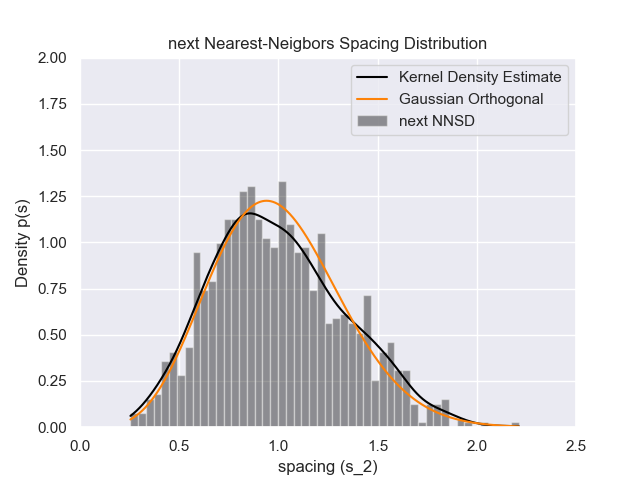
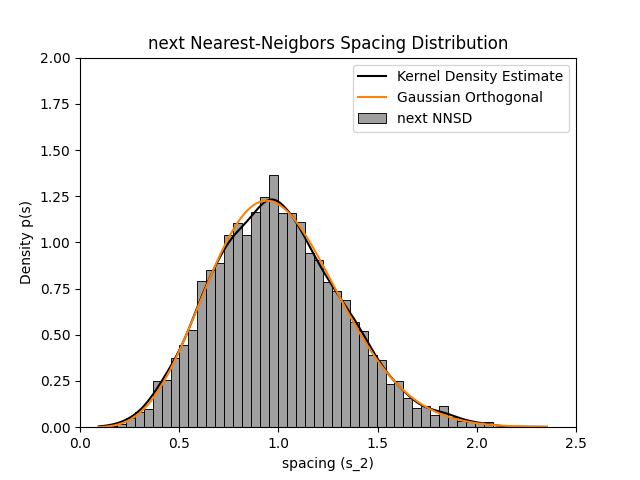
update README

diff --git a/readme/make_figures.py b/readme/make_figures.py
@@ -65,6 +65,85 @@ def make_unfolding_compare_plots() -> None:
     plt.show()
 
 
+def make_unfolding_detrend_compare_plots() -> None:
+    import matplotlib.pyplot as plt
+
+    from empyricalRMT.eigenvalues import Eigenvalues
+    from empyricalRMT.signalproc.detrend import DetrendMethod, detrend
+    from empyricalRMT.smoother import SmoothMethod
+
+    eigs = Eigenvalues.generate(1000, kind="goe")
+    # goe_unfolds = {
+    #     method.name: eigs.detrend(method).unfold(smoother="gue") for method in DetrendMethod
+    # }
+    # goe_unfolds[""] = eigs.unfold(smoother="gue")
+    poly_unfolds = {
+        method.name: eigs.detrend(method).unfold(smoother="poly", degree=5)
+        for method in DetrendMethod
+    }
+    poly_unfolds[""] = eigs.unfold(smoother="poly", degree=5)
+    N = len(DetrendMethod) + 1
+    fig, axes = plt.subplots(ncols=2, nrows=N)
+    for i, (label, unfolded) in enumerate(poly_unfolds.items()):
+        title = f"{label} De-trending"
+        unfolded.plot_nnsd(
+            title=title,
+            brody=True,
+            brody_fit="mle",
+            ensembles=["goe", "poisson"],
+            fig=fig,
+            axes=axes[i][0],
+        )
+        unfolded.plot_spectral_rigidity(title=title, ensembles=["goe"], fig=fig, axes=axes[i][1])
+        unfolded.plot_level_variance(title=title, ensembles=["goe"], fig=fig, axes=axes[i][2])
+        axes[i][0].legend().set_visible(False) if i != 0 else None
+        axes[i][1].legend().set_visible(False) if i != 0 else None
+    fig.subplots_adjust(top=0.95, bottom=0.05, left=0.08, right=0.95, hspace=0.383)
+    fig.set_size_inches(w=8.5 * 1.5, h=11 * 1.5)
+    # fig.savefig(OUTDIR / "unfold_compare_detrended.png", dpi=300)
+    plt.show()
+
+
+def make_single_plots() -> None:
+    from empyricalRMT._types import MatrixKind
+    from empyricalRMT.eigenvalues import Eigenvalues
+    from empyricalRMT.plot import PlotMode
+    from empyricalRMT.smoother import SmoothMethod
+
+    ensembles = ["poisson", "goe"]  # theoretically expected curves to plot
+    eigs = Eigenvalues.generate(matsize=5000, kind=MatrixKind.GOE)
+    unfolded = eigs.unfold(smoother=SmoothMethod.GOE)
+    unfolded.plot_nnsd(
+        ensembles=ensembles, mode=PlotMode.Save, outfile=OUTDIR / "nnsd.png"
+    )  # nearest neighbours spacings
+    unfolded.plot_nnnsd(
+        ensembles=["goe"], mode=PlotMode.Save, outfile=OUTDIR / "nnnsd.png"
+    )  # next-nearest neighbours spacings
+    unfolded.plot_spectral_rigidity(
+        ensembles=ensembles, mode=PlotMode.Save, outfile=OUTDIR / "rigidity.png"
+    )
+    unfolded.plot_level_variance(
+        ensembles=ensembles, mode=PlotMode.Save, outfile=OUTDIR / "variance.png"
+    )
+
+
+def make_unfolding_fit_plot() -> None:
+    import matplotlib.pyplot as plt
+
+    from empyricalRMT.eigenvalues import Eigenvalues
+    from empyricalRMT.smoother import SmoothMethod
+
+    # generate time series data
+    T = np.random.standard_normal([1000, 250])
+    eigs = Eigenvalues.from_time_series(T, trim_zeros=False)
+    exp_unfolded = eigs.unfold(smoother=SmoothMethod.Exponential)
+    poly_unfolded = eigs.unfold(smoother=SmoothMethod.Polynomial, degree=5)
+    fig, (ax1, ax2) = plt.subplots(nrows=1, ncols=2, sharex=True, sharey=True)
+    exp_unfolded.plot_fit(fig=fig, axes=ax1, title="Exponential Unfolding")
+    poly_unfolded.plot_fit(fig=fig, axes=ax2, title="Polynomial Degree 5 Unfolding")
+    fig.savefig(OUTDIR / "unfoldfit.png")
+
+
 def time_rigidity() -> None:
     from timeit import repeat
 
@@ -102,5 +181,8 @@ def time_levelvar() -> None:
 if __name__ == "__main__":
     # make_observables_plot()
     # make_unfolding_compare_plots()
+    # make_unfolding_detrend_compare_plots()
+    make_unfolding_fit_plot()
+    # make_single_plots()
     # time_rigidity()
-    time_levelvar()
+    # time_levelvar()

diff --git a/empyricalRMT/plot.py b/empyricalRMT/plot.py
@@ -361,39 +361,30 @@ def _unfolded_fit(
     N = len(unfolded)
     step_vals = np.arange(0, N)
     df_line = pd.DataFrame({"Step Function": step_vals, "Unfolded λ": unfolded})
-    # df_scatter = pd.DataFrame({"Step Function": steps, "Outlier": np.abs(unfolded)})
     sbn.lineplot(data=df_line, ax=axes)
-    mean = np.mean(np.abs(unfolded))
 
-    # 0 is left of cmap, color_max is right of cmap
-    color = (5 * np.abs(unfolded) / mean) ** 2
-    size = (10 * (np.abs(unfolded) - mean) / mean) ** 2
-    inlier = np.abs(unfolded - step_vals) < 5
-    color[inlier] = color.min()
-    min_size = 0.5
-    size[inlier] = min_size
-    size[size < 1] = min_size
     axes.scatter(
         x=step_vals,
         y=unfolded,
-        s=size,  # size of points
-        c=color,  # color of points
+        s=np.abs(step_vals - unfolded),  # size of points
+        c=np.abs(step_vals - unfolded) ** 1.5,  # 1.5 factor improves color contrast
+        # s=size,  # size of points
+        # c=color,  # color of points
         cmap=cmap,  # should be color blind safe
         marker=MarkerStyle("o"),
         edgecolors="white",
         linewidths=0.1,
-        label="Outlier",
+        label="MSE",
         alpha=0.4,
     )
     # plt.setp(ax_scatter, label="Outlier")
     axes.set(title=title, xlabel="Eigenvalue Index", ylabel="Unfolded Value")
     handles, labels = axes.get_legend_handles_labels()
     line_handles, line_labels = handles[:-1], labels[:-1]
-    # axes.legend(line_handles, line_labels)
     cmap_handles = [Rectangle((0, 0), 1, 1)]
     # seems you only need a handler map for legend element that need a custom handler
     handler_map = dict(zip(cmap_handles, [HandlerColormap(cmap, num_stripes=16)]))
-    labels = [line_labels[0], line_labels[1], "Inlier / Outlier"]
+    labels = [line_labels[0], line_labels[1], "Difference"]
     axes.legend(
         handles=line_handles + cmap_handles,
         labels=labels,
@@ -698,17 +689,18 @@ def _next_spacings(
 
     axes = cast(
         Axes,
-        sbn.distplot(
+        sbn.histplot(
             _spacings,
-            norm_hist=True,
-            bins=bins,  # doane
+            stat="density",
+            bins=bins,  # type: ignore
             kde=False,
             label="next NNSD",
-            axlabel="spacing (s_2)",
-            color="black",
+            color="grey",
             ax=axes,
         ),
     )
+    axes = cast(Axes, axes)
+    axes.set_xlabel("spacing (s_2)")
 
     if kde is True:
         if trim_kde:
@@ -1221,10 +1213,20 @@ def _kde_plot(
     inconsistent behaviours like https://github.com/mwaskom/seaborn/issues/938
     and https://github.com/mwaskom/seaborn/issues/796
     """
+    idx = values <= 0
+    if np.sum(idx) == len(values):
+        warn("Spacings are all zero. Cannot plot kernel density estimate.")
+        return
     values = values[values > 0]  # prevent floating-point bad behaviour
     kde = KDE(values)
     # kde.fit(kernel="gau", bw="scott", cut=0)
-    kde.fit(kernel="gau", bw=bw, cut=0)  # type: ignore
+    try:
+        kde.fit(kernel="gau", bw=bw, cut=0)  # type: ignore
+    except ZeroDivisionError:
+        # kde.fit(kernel="cos", cut=0, fft=False)  # type: ignore
+        print(values)
+        kde.fit()  # type: ignore
+
     evaluated = np.empty_like(grid)
     for i, _ in enumerate(evaluated):
         evaluated[i] = kde.evaluate(grid[i])

diff --git a/empyricalRMT/signalproc/detrend.py b/empyricalRMT/signalproc/detrend.py
@@ -1,13 +1,70 @@
-from typing import cast
+from __future__ import annotations
+
+from enum import Enum
+from typing import Literal, cast
 
 import numpy as np
 from numba import njit, prange
+from numpy import float64 as f64
+from numpy.polynomial import Polynomial
 from numpy.typing import NDArray
 from PyEMD import EMD
+from scipy.optimize import curve_fit
 from scipy.stats import linregress
 
 from empyricalRMT._types import fArr
+from empyricalRMT.exponentials import gompertz, inverse_gompertz
 from empyricalRMT.utils import intercept, slope
+
+
+class DetrendMethod(Enum):
+    EMD = "emd"
+    Linear = "linear"
+    Quadratic = "quadratic"
+    # Exponential = "exp"
+    # Gompertz = "gompertz"
+    # Difference = "diff"
+
+    @classmethod
+    def validate(cls, s: str | DetrendMethod) -> DetrendMethod:
+        try:
+            if isinstance(s, str):
+                return cls(s)
+            return s
+        except Exception as e:
+            values = [e.value for e in cls]
+            raise ValueError(f"{cls.__name__} must be one of {values}") from e
+
+
+_DetrendMethod = Literal["emd", "linear", "quad", "exp", "diff"]
+
+
+def detrend(eigs: fArr, method: DetrendMethod | _DetrendMethod) -> fArr:
+    method = DetrendMethod.validate(method)
+    time = np.arange(0, len(eigs))
+    trend: fArr
+    if method is DetrendMethod.EMD:
+        trend = np.array(EMD().emd(eigs)[-1], dtype=f64)
+    elif method is DetrendMethod.Linear:
+        m, b = linregress(time, eigs)[:2]  # m == slope, b == intercept
+        trend = m * time + b
+    elif method is DetrendMethod.Quadratic:
+        trend = Polynomial.fit(time, eigs, deg=2)(time)
+    # elif method is DetrendMethod.Exponential:
+    #     func = lambda t, a, b: a * np.exp(-b * t)  # type: ignore
+    #     [a, b], cov = curve_fit(
+    #         func,
+    #         time,
+    #         eigs,
+    #         p0=(1.0, 0.5),
+    #     )
+    #     trend = func(eigs, a, b)  # type: ignore
+    # elif method is DetrendMethod.Gompertz:
+    #     [a, b, c], cov = curve_fit(inverse_gompertz, time, eigs, p0=(eigs[-1], 1, 1))
+    #     trend = inverse_gompertz(eigs, a, b, c)
+    # elif method is DetrendMethod.Difference:
+    #     return np.diff(eigs)
+    return eigs - trend
 
 
 class Detrend:

diff --git a/empyricalRMT/eigenvalues.py b/empyricalRMT/eigenvalues.py
@@ -18,6 +18,8 @@ from empyricalRMT._types import MatrixKind, fArr
 from empyricalRMT.construct import _generate_GOE_matrix, _generate_GOE_tridiagonal
 from empyricalRMT.correlater import correlate_fast
 from empyricalRMT.detrend import emd_detrend
+from empyricalRMT.signalproc.detrend import DetrendMethod
+from empyricalRMT.signalproc.detrend import detrend as _detrend
 from empyricalRMT.smoother import Smoother, SmoothMethod
 from empyricalRMT.trim import Trimmed, TrimReport
 from empyricalRMT.unfold import Unfolded
@@ -28,7 +30,12 @@ class Eigenvalues(EigVals):
 
     __WARNED_SMALL = False
 
-    def __init__(self, values: ArrayLike, kind: Optional[MatrixKind] = None):
+    def __init__(
+        self,
+        values: ArrayLike,
+        kind: Optional[MatrixKind] = None,
+        detrending: Optional[DetrendMethod] = None,
+    ):
         """Construct an Eigenvalues object.
 
         Parameters
@@ -49,6 +56,7 @@ class Eigenvalues(EigVals):
             self.__class__.__WARNED_SMALL = True  # don't warn more than once per execution
 
         self.kind: Optional[MatrixKind] = kind
+        self.deterending: Optional[DetrendMethod] = detrending
         self._series_T: Optional[int] = None
         self._series_N: Optional[int] = None
         # get some Marchenko-Pastur endpoints
@@ -296,6 +304,13 @@ class Eigenvalues(EigVals):
     def eigs(self) -> ndarray:
         """Return the stored eigenvalues. Alternate for Eigenvalues.values"""
         return self._vals
+
+    def detrend(self, method: DetrendMethod) -> Eigenvalues:
+        if self.deterending is not None:
+            raise ValueError("Eigenvalues have already been detrended")
+        detrended = _detrend(self.vals, method)
+        print(method, np.mean(np.diff(detrended)))
+        return Eigenvalues(detrended, detrending=method)
 
     def trim_report(
         self,

diff --git a/README.md b/README.md
@@ -16,6 +16,7 @@ computation and plotting of some spectral observables.
     - [GOE Eigenvalues](#goe-eigenvalues)
 - [Examples](#examples)
   - [`examples/basic.py`](#examplesbasicpy)
+- [plot some classic observables and compare to theory](#plot-some-classic-observables-and-compare-to-theory)
 - [Documentation](#documentation)
 - [Installation](#installation)
   - [Pip](#pip)
@@ -159,21 +160,25 @@ unfolded.plot_observables(
 
 ![Spectral observables](readme/observables.png)
 
-```python
-# unfold the eigenvalues via Wigner's semi-circle law:
-unfolded = eigs.unfold(smoother="goe")
-# or unfold via polynomial:
-unfolded = eigs.unfold(smoother="poly", degree=7)
-# optionally detrend unfolded vals via Empirical Mode Decomposition:
-unfolded = eigs.unfold(smoother="poly", degree=7, detrend=True)
 
 # plot some classic observables and compare to theory
+
+```python
+import numpy as np
+
+from empyricalRMT._types import MatrixKind
+from empyricalRMT.eigenvalues import Eigenvalues
+from empyricalRMT.smoother import SmoothMethod
+
+# generate eigenvalues from a 2000x2000 sample from the Gaussian Orthogonal Ensemble
+eigs = Eigenvalues.generate(matsize=5000, kind=MatrixKind.GOE)
 ensembles = ["poisson", "goe"]  # theoretically expected curves to plot
 unfolded.plot_nnsd(ensembles=ensembles)  # nearest neighbours spacings
 unfolded.plot_nnnsd(ensembles=["goe"])  # next-nearest neighbours spacings
 unfolded.plot_spectral_rigidity(ensembles=ensembles)
 unfolded.plot_level_variance(ensembles=ensembles)
 ```
+
 ![nnsd](readme/nnsd.png)
 ![nnnsd](readme/nnnsd.png)
 ![rigidity](readme/rigidity.png)
@@ -182,13 +187,22 @@ unfolded.plot_level_variance(ensembles=ensembles)
 Visually inspect / detect a bad unfolding fit:
 
 ```python
+import matplotlib.pyplot as plt
+
 from empyricalRMT.eigenvalues import Eigenvalues
+from empyricalRMT.smoother import SmoothMethod
 
 # generate time series data
 T = np.random.standard_normal([1000, 250])
 eigs = Eigenvalues.from_time_series(T, trim_zeros=False)
-unfolded = eigs.unfold(degree=5)
-unfolded.plot_fit()
+
+exp_unfolded = eigs.unfold(smoother=SmoothMethod.Exponential)
+poly_unfolded = eigs.unfold(smoother=SmoothMethod.Polynomial, degree=5)
+
+fig, (ax1, ax2) = plt.subplots(nrows=1, ncols=2, sharex=True, sharey=True)
+exp_unfolded.plot_fit(fig=fig, axes=ax1, title="Exponential Unfolding")
+poly_unfolded.plot_fit(fig=fig, axes=ax2, title="Polynomial Degree 5 Unfolding")
+plt.show()
 ```
 
 ![bad fit](readme/unfoldfit.png)
